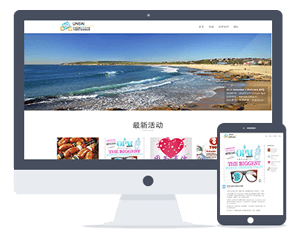
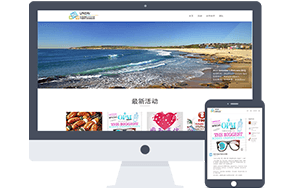
add google analytic, change portfolio pic

diff --git a/_includes/script.html b/_includes/script.html
@@ -61,14 +61,13 @@ function foo(){ console.log("Callback"); }
     
     
 	
-<script type="text/javascript">
-var _gaq = _gaq || [];
-_gaq.push(['_setAccount', 'YOUR GOOGLE ANALYTICS CODE']);
-_gaq.push(['_trackPageview']);
+<script>
+  (function(i,s,o,g,r,a,m){i['GoogleAnalyticsObject']=r;i[r]=i[r]||function(){
+  (i[r].q=i[r].q||[]).push(arguments)},i[r].l=1*new Date();a=s.createElement(o),
+  m=s.getElementsByTagName(o)[0];a.async=1;a.src=g;m.parentNode.insertBefore(a,m)
+  })(window,document,'script','//www.google-analytics.com/analytics.js','ga');
 
-(function() {
-var ga = document.createElement('script'); ga.type = 'text/javascript'; ga.async = true;
-ga.src = ('https:' == document.location.protocol ? 'https://ssl' : 'http://www') + '.google-analytics.com/ga.js';
-var s = document.getElementsByTagName('script')[0]; s.parentNode.insertBefore(ga, s);
-})();
+  ga('create', 'UA-60530537-1', 'auto');
+  ga('send', 'pageview');
+
 </script>
